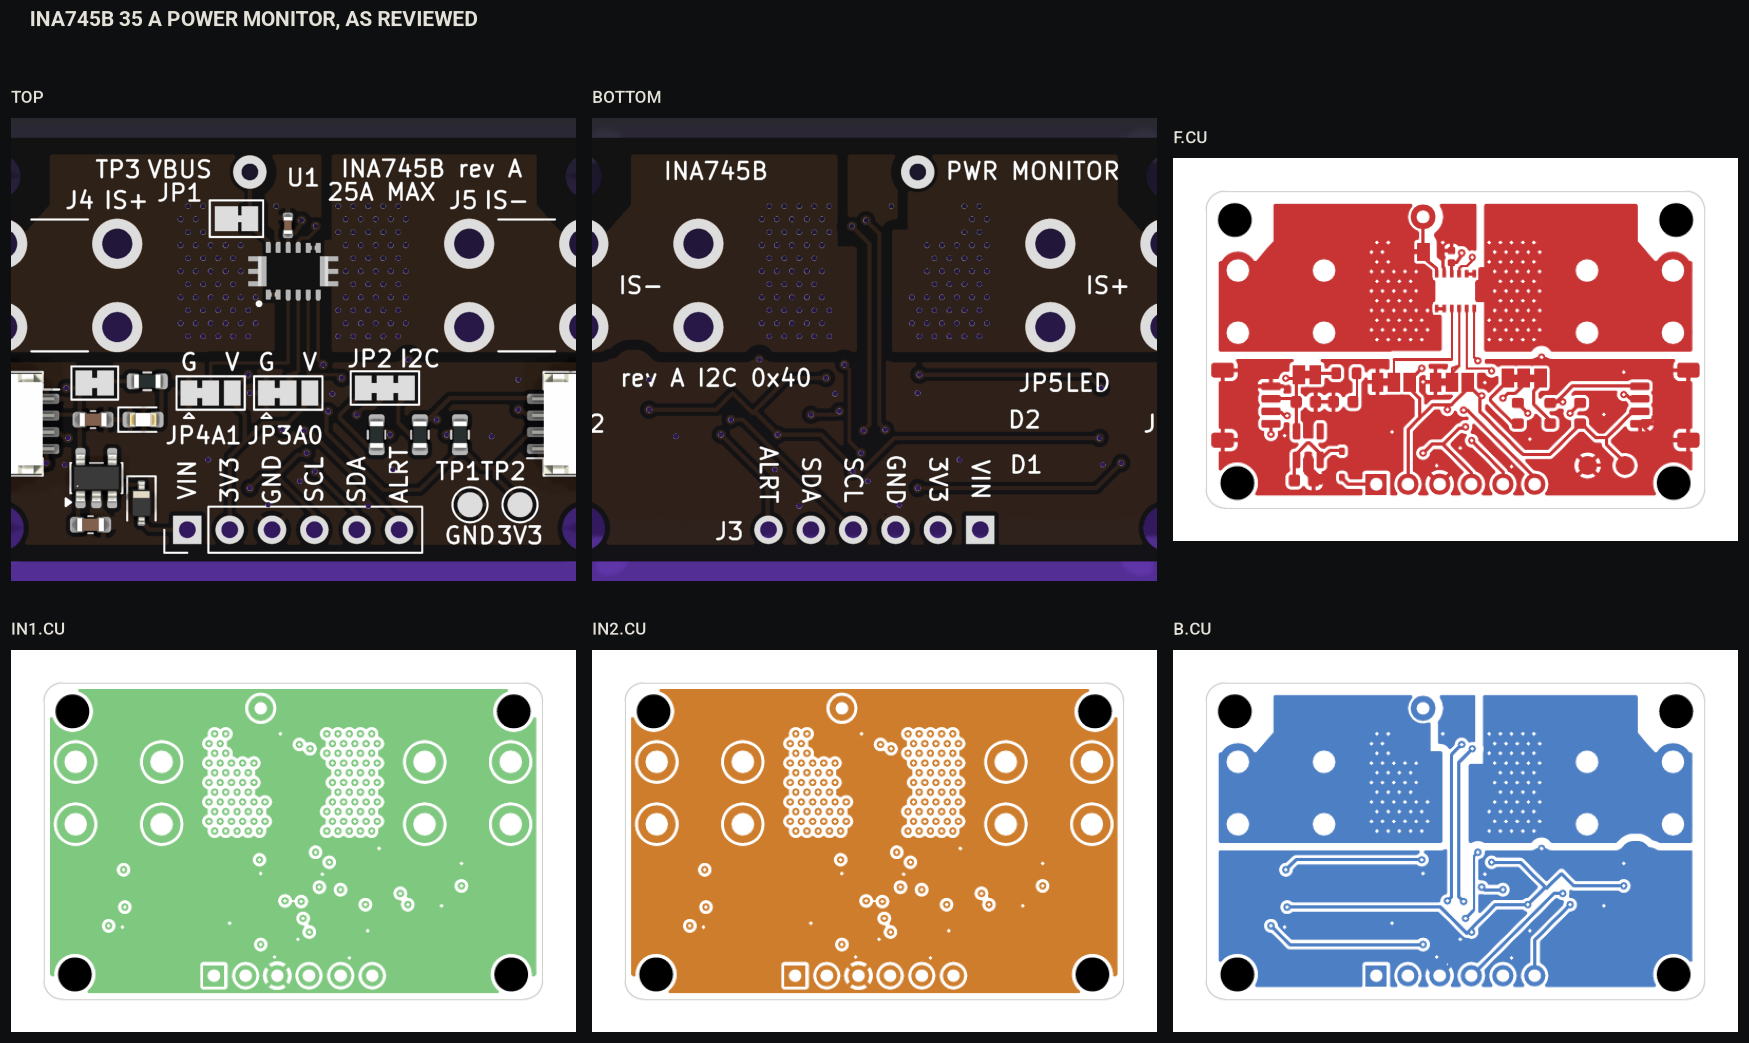
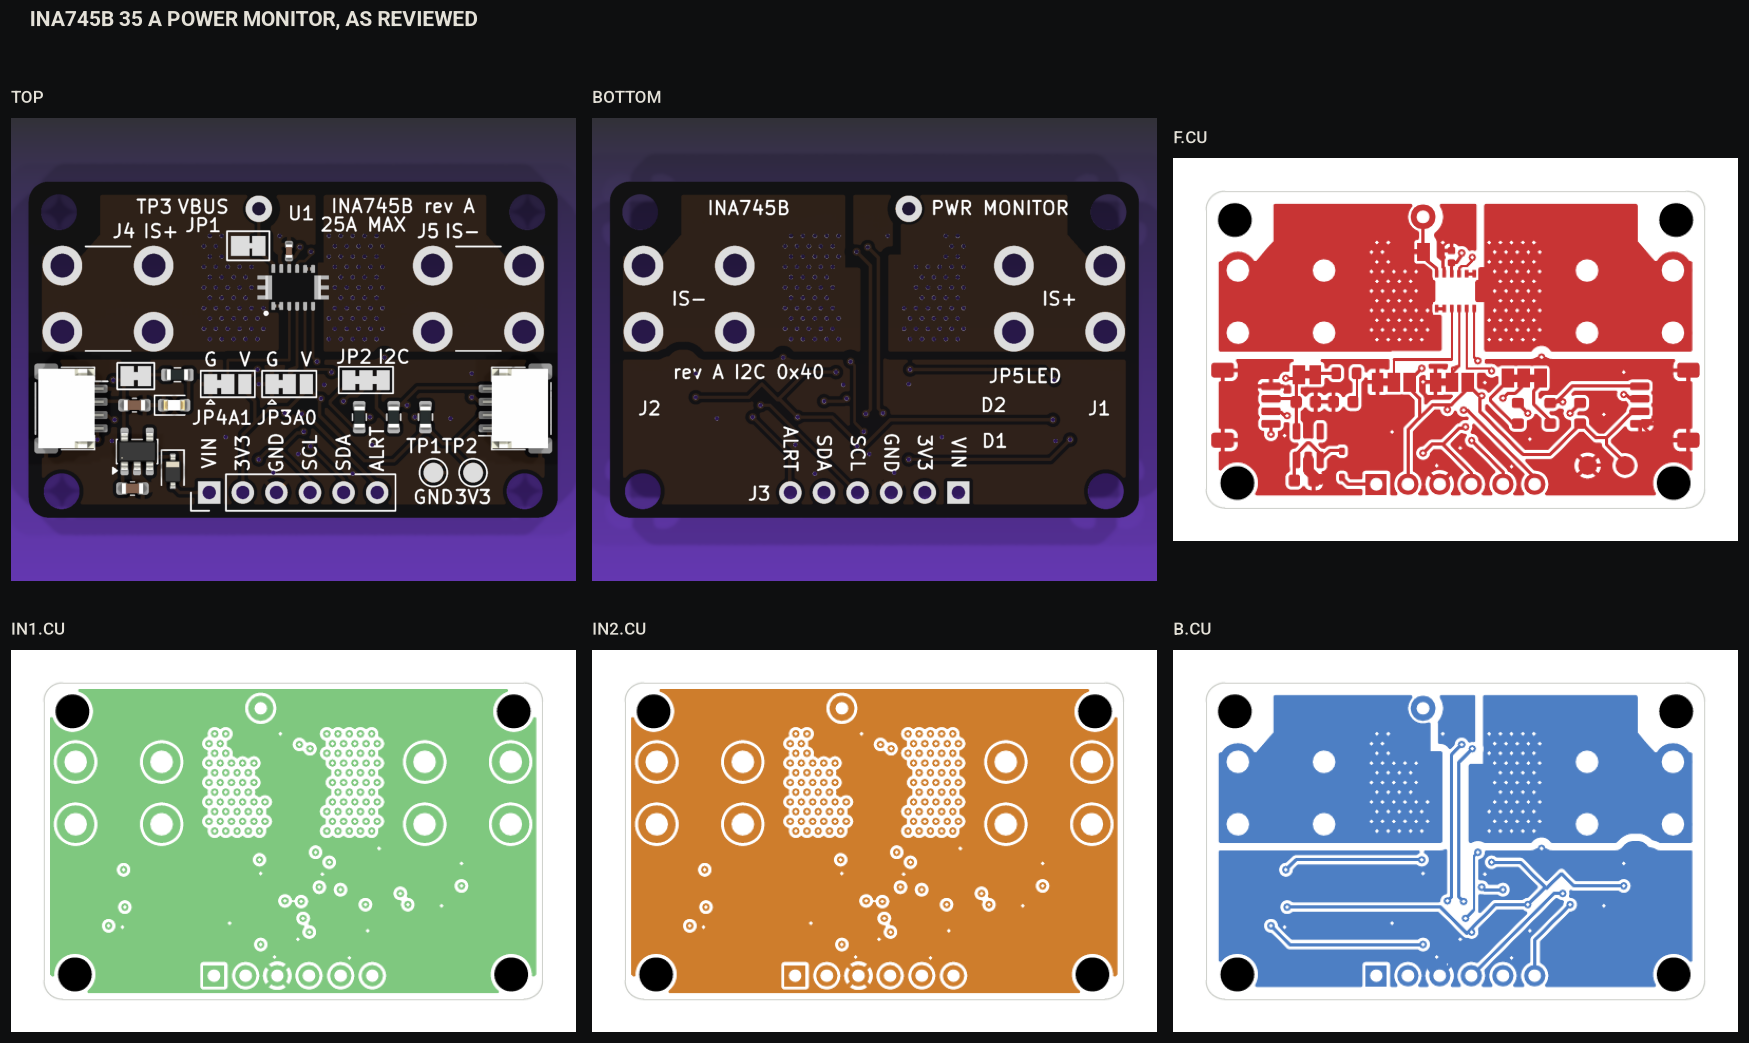
spike 6: verify fixes after the rule changes; long boards fit the contact sheets
route waves test lets the finish close GND (clean at 0 airwires under the 0.10 mm pad rule).

Changed region(s): [[0.0, 0.1227, 0.6792, 0.5829]]

diff --git a/tools/spikes/spike6/gallery.py b/tools/spikes/spike6/gallery.py
@@ -2,7 +2,7 @@
 """One contact sheet per board for a PR or issue: 3D top and bottom, then each copper layer.
   uv run --with matplotlib --with pillow python3 -I tools/spikes/spike6/gallery.py NAME BOARD.kicad_pcb OUT.png [TITLE]
 """
-import os, subprocess, sys, tempfile
+import os, re, subprocess, sys, tempfile
 sys.path.insert(0, "/Users/alxchunlin/code-stuff/alex-style-guide/matplotlib")
 import matplotlib
 matplotlib.use("Agg")
@@ -23,9 +23,14 @@ def main():
     title = sys.argv[4] if len(sys.argv) > 4 else name
     d = tempfile.mkdtemp(prefix="gallery-")
     panels = []
+    # the renderer fits a square view, so a long board needs a smaller zoom or its ends are cut off
+    pts = re.findall(r'\(gr_(?:line|rect|arc)\s+\(start ([-\d.]+) ([-\d.]+)\)(?:\s+\(mid [-\d.]+ [-\d.]+\))?\s+\(end ([-\d.]+) ([-\d.]+)\)[\s\S]{0,160}?Edge\.Cuts', open(board, errors="ignore").read())
+    xs = [float(v) for p in pts for v in (p[0], p[2])]; ys = [float(v) for p in pts for v in (p[1], p[3])]
+    aspect = (max(xs) - min(xs)) / max(max(ys) - min(ys), 1) if xs else 1.5
+    zoom = "1.45" if aspect < 1.45 else "1.15" if aspect < 1.9 else "0.9"
     for side in ("top", "bottom"):
         f = os.path.join(d, side + ".png")
-        sh(CLI, "pcb", "render", "--side", side, "--width", "1100", "--height", "900", "--zoom", "1.45", "--quality", "high", "--background", "opaque", "-o", f, board)
+        sh(CLI, "pcb", "render", "--side", side, "--width", "1100", "--height", "900", "--zoom", zoom, "--quality", "high", "--background", "opaque", "-o", f, board)
         panels.append((side.upper(), f))
     text = open(board, errors="ignore").read(6000)
     n = "In2.Cu" in text
